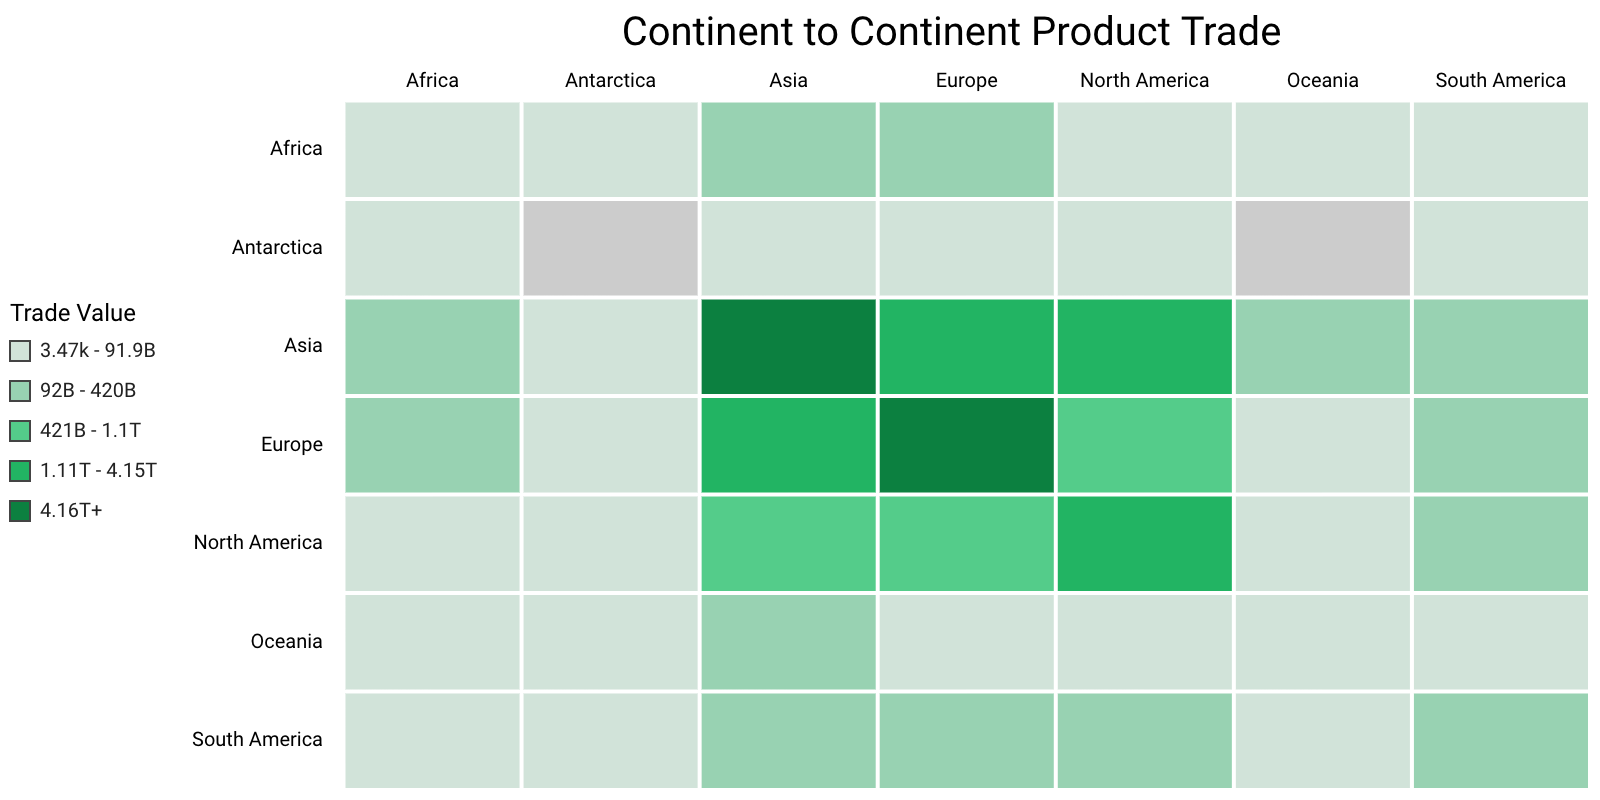
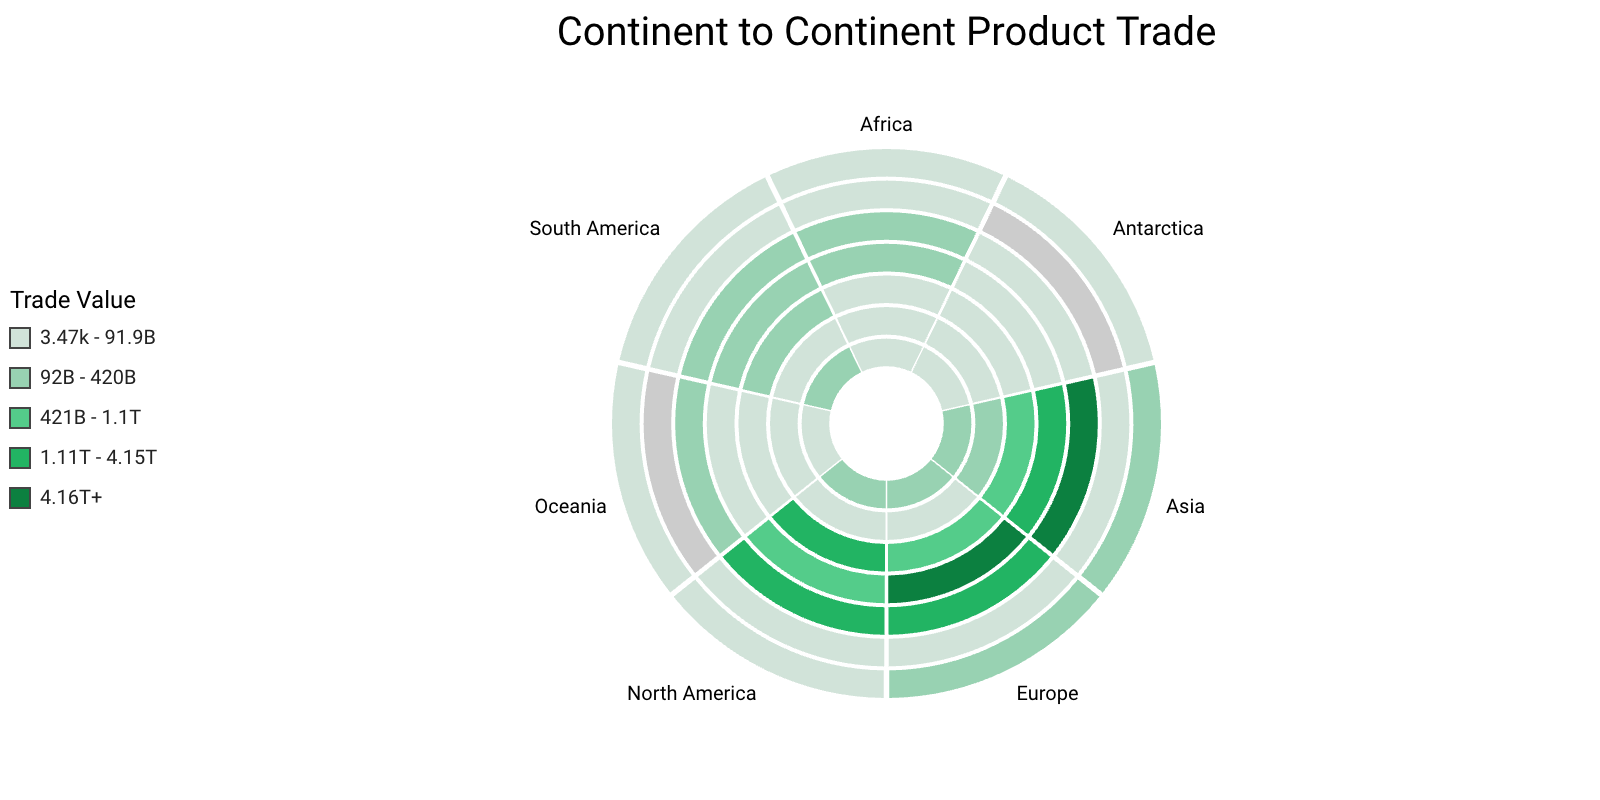
d3plus-matrix examples

diff --git a/_examples/d3plus-matrix/radial-matrix/embed.html b/_examples/d3plus-matrix/radial-matrix/embed.html
@@ -23,7 +23,7 @@
 
     <script>
 
-      new d3plus.Matrix()
+      new d3plus.RadialMatrix()
         .config({
             colorScale: "Trade Value",
             colorScaleConfig: {

diff --git a/_examples/d3plus-matrix/radial-matrix/index.md b/_examples/d3plus-matrix/radial-matrix/index.md
@@ -2,7 +2,7 @@
 title: Radial Matrix
 width: 800
 height: 400
-time: 1605886689057
+time: 1605886792081
 date: November 20, 2020
 ---
 
@@ -13,7 +13,7 @@ The [Radial Matrix](http://d3plus.org/docs/#RadialMatrix) class creates a radial
 Everything else uses the same color and label methods as in other visualizations, such as the use of [colorScale](http://d3plus.org/docs/#Viz.colorScale) here to create a heatmap.
 
 ```js
-new d3plus.Matrix()
+new d3plus.RadialMatrix()
   .config({
       colorScale: "Trade Value",
       colorScaleConfig: {

diff --git a/_examples/d3plus-matrix/getting-started/index.md b/_examples/d3plus-matrix/getting-started/index.md
@@ -2,7 +2,7 @@
 title: Simple Matrix
 width: 800
 height: 400
-time: 1605886689057
+time: 1605886792081
 date: November 20, 2020
 ---
 
